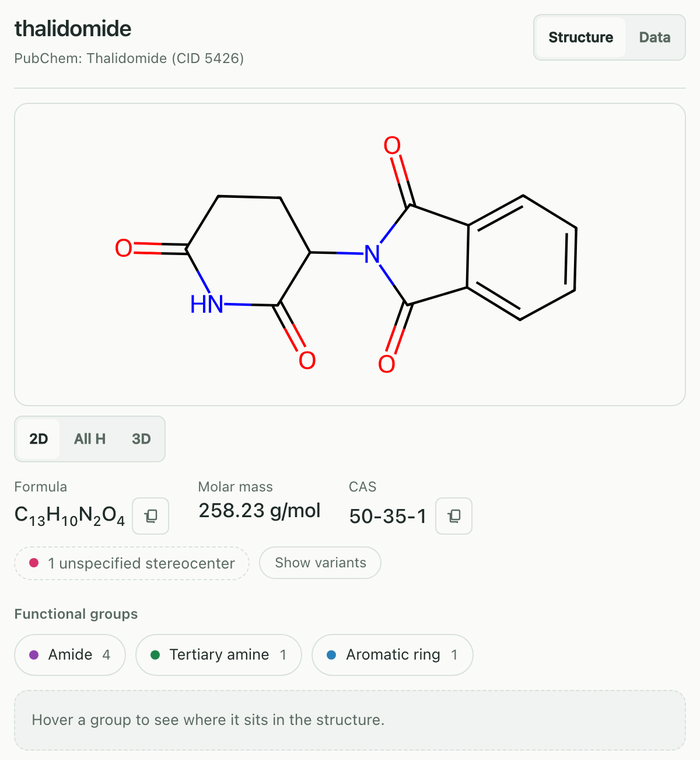
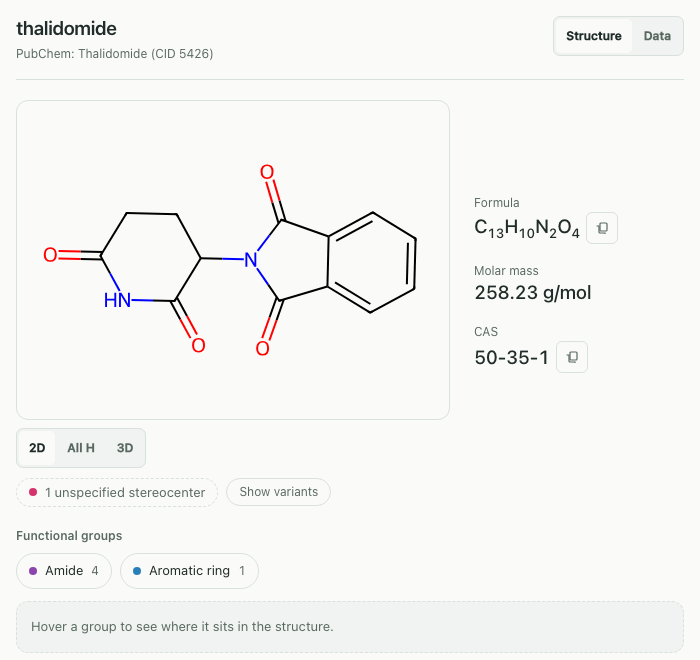
0.10.0 vorbereitet: Versionen, CHANGELOG, Doku nach der Sichtung berichtigt
Doku-Sichtung gegen den Code seit v0.9.1: Insulin und Calcitonin bekommen
den Cartoon, Antikörper werden gezeichnet, Porphin ist achsenparallel, der
InChIKey der Mechanismus-Substrate geht an PubChem, „0 of 3“ war verdreht.
CHANGELOG ohne die nie veröffentlichten Zwischenstände. Zwei Panelbilder der
Nutzerdoku neu, sie zeigten die behobenen Amin-Chips.

Claude-Session: https://claude.ai/code/session_01RTLSKacjq7xLFJBbgvxaRR

diff --git a/CHANGELOG.md b/CHANGELOG.md
@@ -6,6 +6,8 @@ this project uses [Semantic Versioning](https://semver.org/).
 
 ## [Unreleased]
 
+## [0.10.0] — 2026-11-10
+
 ### Added
 
 - **`generate_protein_or_antibody`.** A drawing tool of its own for proteins, enzymes and antibodies
@@ -17,7 +19,7 @@ this project uses [Semantic Versioning](https://semver.org/).
   protein name; their descriptions and the server instructions now point at `generate_protein_or_antibody`.
   A name that is not a protein gets a message pointing at `generate_molecule`. Default profile
   17 tools (13 with a panel), full profile 24 (17).
-- **Proteins as cartoons.** Proteins are drawn as a ribbon diagram instead of a Cα trace:
+- **Proteins as cartoons.** Proteins are drawn as a ribbon diagram:
   helices as ribbons, strands as arrows, loops as a thin tube, from the backbone atoms N/Cα/C/O.
   Heme, metal ions and inhibitors near the protein are drawn and named (hemoglobin with its four
   hemes, carbonic anhydrase with its zinc); water, buffers and glycans are left out. Entries without
@@ -52,13 +54,12 @@ this project uses [Semantic Versioning](https://semver.org/).
   Ferriheme b on 10.11.2026; these names no longer follow.
 - "X zwitterion" keeps the stereo of X ("alanine zwitterion" was racemic, "Alanin Zwitterion" was not found, "Ala zwitterion" was Ala-Leu-Ala).
 - **Proteins.** A protein name no structure database knows ("Lysozym", "Trypsin", "hemoglobin")
-  now gets its UniProt entry (accession, organism, length, mass) instead of "not found", and
-  antibody names (-mab, "trastuzumab") a plain sentence. `lookup(topic="biochem")` returns a
-  compact UniProt data sheet for a protein name (function, EC number, up to three PDB IDs).
-- **Proteins as backbone traces.** `generate_molecule` and `generate_3d` draw enzymes and
-  antibodies: smoothed Cα trace from the PDB (or the AlphaFold model), principal-axis view,
-  PNG/SVG in `~/ChemDraw-Output/proteine/` and a rotatable panel (colour by secondary structure,
-  chain or AlphaFold confidence). A curated lab-standard table picks the usual entry (hen
+  is now drawn as a cartoon instead of "not found", and the message gives its UniProt entry
+  (accession, organism, length, mass). `lookup(topic="biochem")` returns a compact UniProt data
+  sheet for a protein name (function, EC number, up to three PDB IDs).
+- **Which protein is drawn.** The structure comes from the PDB (or the AlphaFold model), in a
+  principal-axis view, as PNG/SVG in `~/ChemDraw-Output/proteine/` and in the rotatable panel.
+  A curated lab-standard table picks the usual entry (hen
   lysozyme, bovine trypsin, BSA, GFP, Taq, human insulin, haemoglobin tetramer, testis ACE …);
   an organism in the name selects another ("Lysozym Huhn", "RecA Bacillus subtilis").
   Gene symbols (`RecA`, `LipA`) go to UniProt's gene field — "PabA" was 4-aminobenzoic
@@ -66,10 +67,10 @@ this project uses [Semantic Versioning](https://semver.org/).
   Fab structure, honestly labelled, plus an IgG domain scheme; an unknown antibody shows the
   architecture of an intact IgG (1HZH). `lookup(topic="biochem")` uses the same choice and adds
   the catalysed reaction (Rhea), cofactors and the drawn structure.
+- **Protein pictures fill the panel.** The cartoon, its backbone-trace fallback and the IgG scheme share one drawing area as tall as the molecule panel's 3D view (square, at most 720 px, full width), instead of the space left over in a fixed-height panel; the "antigen-binding site" label no longer touches the dashed Fab frame.
 
 ### Changed
 
-- **Larger protein pictures in the panel.** The cartoon, its backbone-trace fallback and the IgG scheme now share one drawing area as tall as the molecule panel's 3D view (square, at most 720 px, full width), instead of the space left over in a fixed-height panel; the "antigen-binding site" label no longer touches the dashed Fab frame.
 - **A structure you type is no longer sent to any database by default.** Until 0.9.1, when
   PubChem did not know a structure's InChIKey, `generate_molecule`, `batch_generate` and the
   panel's Data button (`lookup_molecule_data`) posted the SMILES itself to PubChem, and `lookup`
@@ -105,8 +106,9 @@ this project uses [Semantic Versioning](https://semver.org/).
   exports and comparisons; before, RDKit left a gap ("Siroh  m"). ASCII legends are unchanged.
 - "lysozyme" drew a 159-atom peptide fragment and "alcohol dehydrogenase" an acyl-CoA (PubChem
   files both under these titles); enzyme names are now checked against UniProt first.
-- A name that resolves to more than 200 heavy atoms (insulin, glucagon) is no longer drawn as an
-  unreadable tangle; the message says what it is and what helps. Supplied SMILES are still drawn.
+- A name that resolves to more than 200 heavy atoms (glucagon) is no longer drawn as an
+  unreadable tangle; the message says what it is and what helps, and a name UniProt lists as a
+  protein (insulin) gets the cartoon. Supplied SMILES are still drawn.
 - Panel: formula and molar mass are computed from the structure when PubChem has no record for
   it (a peptide built from its sequence showed neither).
 - "hydrogen" is drawn as H–H (two atoms and a bond); it showed the bare label "HH".

diff --git a/docs/tools.md b/docs/tools.md
@@ -46,7 +46,7 @@ answer for a protein name. A tool of its own because Claude Desktop shows the
 model only tool names before it loads any description — without "protein" in
 a name, protein requests went to the host's own drawing tool. A name that is
 not a protein (caffeine, a SMILES) gets a message pointing at
-`generate_molecule` instead of a picture. The cartoon (ribbon diagram, since E13):
+`generate_molecule` instead of a picture. The cartoon (ribbon diagram):
 α-helices as ribbons, β-strands as flat arrows pointing to the C-terminus,
 loops as a thin tube, from the backbone atoms (N, Cα, C, O) of an
 experimental structure (PDB) or, without one, of the AlphaFold model. The
@@ -77,7 +77,7 @@ general antibody name opens on the scheme, an antibody with its own Fab
 structure opens on the structure and marks in the scheme which Fab arm it
 is. The panel follows the host's light/dark theme; the files stay light. Export
 PNG saves the cartoon as shown, at three times the panel resolution. The
-engine is about 2.4 MB of the panel file but only runs when a protein is
+engine is about 2.5 MB of the panel file but only runs when a protein is
 shown. If the host has no WebGL (or blocks the script), the panel keeps the
 SVG backbone trace and says so — never an empty area.
 
@@ -126,12 +126,11 @@ SVG backbone trace and says so — never an empty area.
 - `batch_generate` and `compare_molecules` still draw no proteins; their
   message points at `generate_protein_or_antibody`.
 
-Before E8 `generate_molecule` explained instead of drawing; these rules from
-E6 still decide for names outside the table:
+Which names count as a protein, for names outside the table:
 
 - A name that UniProt (Swiss-Prot) lists as a protein — "lysozyme",
   "Trypsin", "hemoglobin", German "Lysozym", "Katalase", "Kollagen" — is
-  answered with the entry: name, accession, organism, length and mass (marked
+  drawn as a cartoon, and the message gives the entry: name, accession, organism, length and mass (marked
   as precursor when a signal peptide or propeptide is cleaved off), and a
   pointer to `lookup` with topic `biochem` (data sheet: function, EC number,
   catalysed reaction with Rhea ID, cofactors, and which structure is drawn). Enzyme names (ending in -ase or
@@ -139,12 +138,14 @@ E6 still decide for names outside the table:
   peptide fragment under "lysozyme" and an acyl-CoA under "alcohol
   dehydrogenase". Other names ask UniProt only after every structure source
   answered "unknown" — never when they were unreachable.
-- Antibody names (INN stem -mab, "trastuzumab") get a plain sentence: a
-  monoclonal antibody, a protein of about 150 kDa as a full IgG. UniProt does
-  not list therapeutic antibodies under their INN, so no numbers are given.
-- A name that resolves to a structure with more than 200 heavy atoms
-  (insulin 404, glucagon 246, calcitonin 239) is not drawn; the message gives
-  formula, mass, heavy atoms and the number of residues. Palytoxin (186),
+- Antibody names (INN stem -mab, "trastuzumab") are drawn as described under
+  Antibodies. UniProt does not list therapeutic antibodies under their INN,
+  so the message gives no length or mass.
+- A name that resolves to a structure with more than 200 heavy atoms is not
+  drawn as a skeletal formula. If UniProt lists it as a protein (insulin,
+  calcitonin), it is drawn as a cartoon instead; otherwise (glucagon, 246
+  heavy atoms) the message gives formula, mass, heavy atoms and the number of
+  residues. Palytoxin (186),
   oxytocin and 20-residue peptides are still drawn. A SMILES or a peptide
   sequence you pass yourself is always drawn.
 
@@ -439,8 +440,8 @@ writes its setting to `server.log` at startup ("SMILES lookup: off" or "on").
   the primary outputs and the ones the pixel tests cover.
 - **Claude Desktop often answers knowledge questions without a tool.**
   "What is the solubility of paracetamol?", expected IR bands, a pH number or
-  "compare aspirin and paracetamol" were answered from memory in 0 of 3 chats
-  each (measured 2026-11-03), even though a tool fits. Drawing and figure
+  "compare aspirin and paracetamol" were answered from memory, without a tool call, in 3 of 3
+  chats each (measured 2026-11-03), even though a tool fits. Drawing and figure
   requests are not affected. Adding "use ChemDraw" to the prompt made Desktop
   call `calculate_ph`, `lookup` and `compare_molecules` (2 of 2 chats each).
 - **The extension targets macOS and Linux.** Windows is untested.

diff --git a/plans/mcp-server.md b/plans/mcp-server.md
@@ -1,6 +1,8 @@
 # MCP-Server: Panel, Werkzeuge, Releases
 
-## Weiter bei — Release-Vorprüfung 0.10.0 (10.11.2026, 17:41)
+## Weiter bei — Release 0.10.0 ausführen, dann Vermarktung (10.11.2026, 18:27)
+
+- **Stand 18:27 (Owner) — 0.10.0 vorbereitet; Jay hat am 10.11. abends das Veröffentlichen ausdrücklich freigegeben („ich gebe dir meinen Segen, dass du selber die 10 veröffentlichen kannst“), danach Vermarktung.** Chips: Carbamat eigener Chip, Acyl-O kein Ether, Ring-Amide im Koffein (`4ac3a05`, drei rote Tests zuerst). Doku-Sichtung durch einen Opus-Agenten, Befunde vom Owner an Code und Tool-Aufruf nachgeprüft und behoben: `docs/tools.md` (Insulin/Calcitonin bekommen den Cartoon, Antikörper werden gezeichnet, „0 of 3“ war verdreht), `docs/metal-complexes.md` (Porphin ist achsenparallel), `docs/privacy.md` (InChIKey der Mechanismus-Substrate geht an PubChem), CHANGELOG (Zwischenstände Cα-Spur/„plain sentence“ entfernt), `docs/images/panel-molecule.png` und `panel-peptide.png` neu (zeigten die falschen Amin-Chips; Fälle `doku-molekuel`/`doku-peptid` in `panel-shots.mjs`). Version 0.10.0 in `pyproject.toml`, `server.json` (2×), `plugin.json`, `uv.lock`; CHANGELOG datiert. Belegt: `release_check.py --tag v0.10.0` ok, Gate rc=0, `test:host` rc=0, Handshake 17/13 und 24/17 rc=0, `identitaet.py` 84 grün, Abnahme-Greps leer. **Nächster Schritt (Owner):** CI abwarten → `gh release create v0.10.0` → Umgebung `pypi` freigeben → Assets, PyPI, Registry `isLatest` prüfen → Desktop-Bundle-Abnahme. **Geparkt:** `generate_protein_or_antibody("glucagon")` findet keinen UniProt-Eintrag (dort „Pro-glucagon“); `docs/system-map.html` und `scripts/werkzeugbilanz*.py` kennen das neue Tool nicht (interne Dateien).
 
 - **Stand 17:47 (Owner) — Chip-Fehler behoben (`efdcc34`), Kopf-GIFs neu aufgenommen.** Amin-Muster in `svg_renderer.py` schließen ein N an C=O, C=S oder S=O aus; Test zuerst rot (6 Fälle: Capsaicin, Paracetamol, Dimethylacetamid, Thalidomid-Imid, Thioamid, Carbamat), Gate danach rc=0. Der behaltene README-Kopf zeigte den Fehler selbst (Thalidomid mit Chip „Tertiary amine“), deshalb `readme:gifs -- views 3d molecule` neu aufgenommen (rc=0, hell und dunkel, Bild 1 angesehen: Thalidomid „Amide 4 · Aromatic ring 1“, Capsaicin „Ether · Amide · Phenol · Aromatic ring“). CI für `d885168` grün (Lauf 42856624266). **Nächster Schritt (Owner):** Release-Vorprüfung 0.10.0. **Offen bei Jay:** „Ja“ zum Tag 0.10.0. **Geparkt, eigener Befund:** ein Carbamat (`COC(=O)NC`) bekommt den Chip „Ether“ statt Ester/Carbamat; Koffein zeigt keine Amid-Chips (aromatisches n).
 

diff --git a/docs/privacy.md b/docs/privacy.md
@@ -24,7 +24,7 @@ is.
 | `lookup` with a name | PubChem, ChEBI, UniProt or KEGG, depending on the topic, as typed. A bare run of up to five letters (`PC`, `NOS`, `RecA`) counts as a name here. |
 | `lookup` with a structure | Its InChIKey to PubChem; then PubChem's name for that record to the source of the topic (for `biochem` with the aspirin SMILES: "Aspirin" to UniProt and ChEBI). |
 | The panel's **Data** button | The InChIKey of the drawn structure to PubChem. |
-| Species of a reaction, substrates of a mechanism, the structure of `generate_3d`, `predict_spectrum` or an Anki card | A name is resolved as above (PubChem asked for the structure by name); a SMILES goes nowhere. A protein name in `generate_3d` fetches the structure as above. |
+| Species of a reaction, substrates of a mechanism, the structure of `generate_3d`, `predict_spectrum` or an Anki card | A name is resolved as above (PubChem asked for the structure by name); a SMILES itself is not sent. For the substrates of a mechanism, the InChIKey goes to PubChem to fetch the compound's name. A protein name in `generate_3d` fetches the structure as above. |
 | Spectra, TLC plates, titration curves, `calculate_ph` | Nothing. Computed and drawn locally. |
 | Anki delivery | The `.apkg` file stays on your computer. With AnkiConnect the deck goes to the Anki running on your own computer (`http://127.0.0.1:8765`), and only when you ask for it. |
 

diff --git a/docs/peptides-and-proteins.md b/docs/peptides-and-proteins.md
@@ -65,7 +65,8 @@ there are several), and turned so that the longest extent lies horizontal.
 Bound groups near the protein (heme, metal ions, bound inhibitors) are drawn
 as sticks and spheres and named in the legend; water, buffer components,
 simple salts and glycans are left out. The panel rotates; `generate_molecule`
-and `generate_3d` give the same answer for a protein name. Title, subtitle and image always name
+and `generate_3d` give the same answer for a protein name. A protein
+cartoon has no CDXML: `formats` takes `png` and `svg` here. Title, subtitle and image always name
 protein, organism and source.
 
 The file in `~/ChemDraw-Output/proteine/` carries title, legend and the source

diff --git a/docs/getting-started.md b/docs/getting-started.md
@@ -61,7 +61,7 @@ connector menu, and type:
 
 > Draw thalidomide
 
-<img src="images/panel-molecule.png" alt="Thalidomide panel: drawing, 2D / All H / 3D buttons, formula C13H10N2O4, molar mass 258.23 g/mol, CAS 50-35-1, one unspecified stereocenter with a Show variants button, functional groups Amide, Tertiary amine, Aromatic ring" width="420">
+<img src="images/panel-molecule.png" alt="Thalidomide panel: drawing, 2D / All H / 3D buttons, formula C13H10N2O4, molar mass 258.23 g/mol, CAS 50-35-1, one unspecified stereocenter with a Show variants button, functional groups Amide and Aromatic ring" width="420">
 
 What the panel shows:
 

diff --git a/docs/metal-complexes.md b/docs/metal-complexes.md
@@ -30,9 +30,8 @@ the metal in the centre, bonded to the four ring nitrogens.
 
 ## Without a metal
 
-*"Draw protoporphyrin IX"* gives the same undistorted ring, with two NH
-groups; metal-free phthalocyanine too. Metal-free porphine does not: it was
-drawn with a distorted macrocycle.
+*"Draw protoporphyrin IX"* gives the same undistorted, axis-aligned ring,
+with two NH groups; porphine and metal-free phthalocyanine too.
 
 <img src="images/protoporphyrin-ix.png" alt="Protoporphyrin IX: undistorted porphyrin ring with two NH groups, two vinyl and two propionic acid groups" width="300">
 

diff --git a/docs/development.md b/docs/development.md
@@ -31,7 +31,7 @@ cd chemdraw_tool/ui && npm install && npx playwright install chromium  # fronten
 ./test.sh                    # the gate: lint, pytest, bundle freshness, JS unit and browser tests
 ```
 
-About 9,800 Python tests plus JavaScript unit and headless-Chromium tests,
+About 10,000 Python tests plus JavaScript unit and headless-Chromium tests,
 written test-first. Frozen renderings guard the drawing output, a pinned
 identity list guards name resolution, and snapshots of every tool description
 guard which tool the model picks.

diff --git a/docs/reactions-and-mechanisms.md b/docs/reactions-and-mechanisms.md
@@ -111,5 +111,6 @@ balanced as drawn:
 - Curved-arrow mechanisms: SN1, SN2 and Fischer esterification only, each
   within the substrate limits above. Only the substitution is drawn when
   elimination competes.
-- Large species are drawn small in a scheme; the single-structure drawing is
-  easier to read.
+- Large species are drawn small in a scheme file; the single-structure
+  drawing is easier to read. The panel keeps the normal bond scale and stacks
+  the scheme when the row gets too small.

diff --git a/docs/for-developers.md b/docs/for-developers.md
@@ -13,7 +13,7 @@ cd chemdraw_tool/ui && npm install && npx playwright install chromium && cd -
 ./test.sh
 ```
 
-`./test.sh` is the one green/red check: lint, about 9,800 Python tests, bundle
+`./test.sh` is the one green/red check: lint, about 10,000 Python tests, bundle
 freshness and the JavaScript unit and browser tests. Outside the gate, each
 needing network:
 
